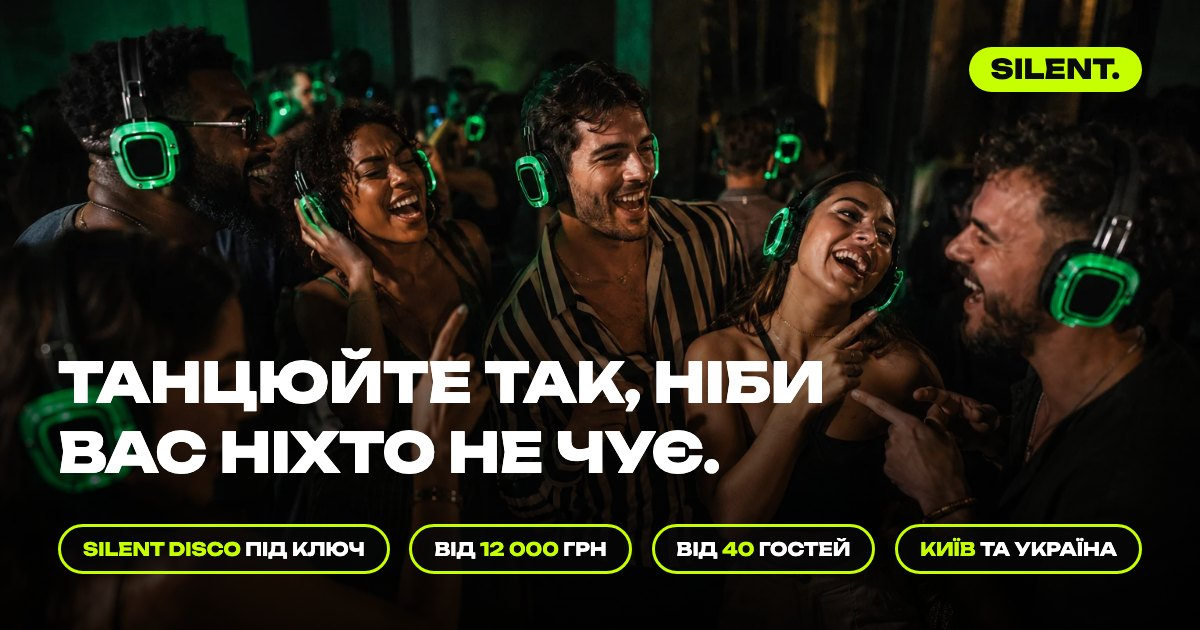
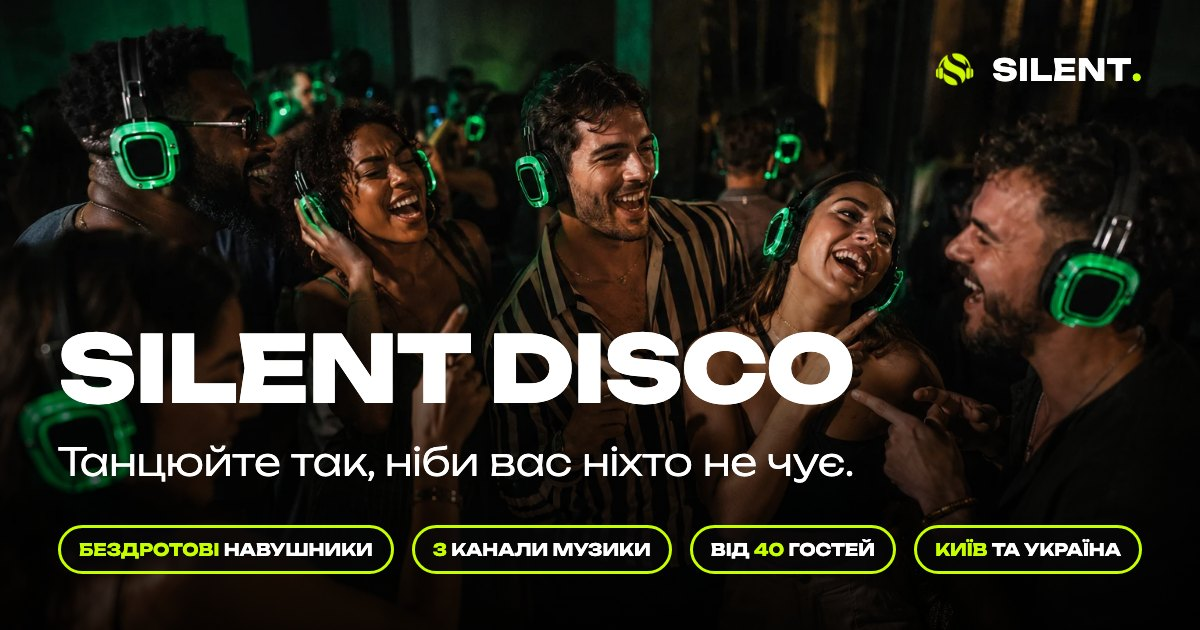
Блог і картки: посилання на студентські події й фестивалі в статтях, нова картка головної (UA/EN), мета-опис блогу, меню без «Бар-тури»
- Дві статті блогу (silent-disco-dlya-riznykh-podiy, tykha-dyskoteka-silent-disco): нативні посилання на /experiences/students/ і /experiences/festivals/. Слова «Громадські події» без посилання навмисно: під них буде окрема сторінка.
- Mega-меню «Тихі враження»: прибрано «Бар-тури», щоб у стовпці було не більше 6 пунктів (картка в каталозі лишилась). Правило записане в CLAUDE.md.
- Мета-опис блогу оновлено (description, og:description, розмітка Blog).
- Картка головної (og-home.jpg): «Silent Disco» заголовком, «Танцюйте так, ніби вас ніхто не чує» підзаголовком, новий логотип, пігулки без ціни. Новий шаблон template-photo-logo.html.
- Англомовна картка головної og-home-en.jpg підключена до /en/ у build_en.py.
- Видалено невикористаний images/promo.png зі старою ціною 9 800 грн.

Changed region(s): [[0.0308, 0.5127, 0.7092, 0.7841], [0.0617, 0.8143, 0.9558, 0.9349], [0.7708, 0.0603, 0.9558, 0.1508]]

diff --git a/blog/silent-disco-dlya-riznykh-podiy/index.html b/blog/silent-disco-dlya-riznykh-podiy/index.html
@@ -323,7 +323,6 @@ if (/^(localhost|127\.0\.0\.1|\[::1\])$/.test(location.hostname) || /\.localhost
                   <a href="/experiences/#cat-community" class="nav-mega-q">Ярмарки та маркети</a>
                   <a href="/experiences/#cat-community" class="nav-mega-q">Інклюзивні події</a>
                   <a href="/experiences/#cat-community" class="nav-mega-q">Події для літніх</a>
-                  <a href="/experiences/#cat-community" class="nav-mega-q">Бар-тури</a>
                   <a href="/experiences/#cat-community" class="nav-mega-q">Готелі й ресорти</a>
                 </div>
               </div>
@@ -521,7 +520,7 @@ if (/^(localhost|127\.0\.0\.1|\[::1\])$/.test(location.hostname) || /\.localhost
 <div class="wrap art-body">
   <p class="art-lead">Уявіть вечірку, де десятки людей танцюють і співають, а якщо зняти навушники, чути лише голоси, сміх і звуки самої події замість гучних колонок. Це Silent Disco: музика звучить у бездротових навушниках, а кожен гість сам регулює гучність і перемикається між каналами. Розповідаємо, для яких подій варто спробувати цей формат.</p>
 <section class="art-blk"><div class="art-flow"><h2>Що робить Silent Disco особливим?</h2><p>На традиційній вечірці всі слухають одну музику. Якщо комусь подобається електроніка, а хтось хоче попхіти чи класику 2000-х, організатору доводиться шукати компроміс.</p><p>У Silent Disco гості отримують бездротові навушники з трьома каналами. Кожен канал має власний плейліст, а перемикатися між ними можна просто під час вечірки. Тож в одному просторі одночасно звучать три різні музичні вечірки, а всі гості лишаються частиною однієї події.</p><p>Є й візуальний ефект: світлодіодні навушники світяться різними кольорами залежно від обраного каналу. Збоку це схоже на те, ніби люди танцюють під різну музику в повній тиші.</p><p>Поєднання музики, свободи вибору та незвичного досвіду робить формат цікавим для найрізноманітніших заходів. Докладніше про технологію: <a href="/blog/tykha-dyskoteka-silent-disco/">Silent Disco, або тиха дискотека</a>.</p></div></section>
-<section class="art-blk"><div class="art-cols"><h2>10 ідей, для яких подій варто спробувати Silent Disco</h2><p class="art-cards-lead">Для кожної ідеї нижче коротко описано, як формат працює на такій події, і додано підсумок, чому його варто спробувати.</p><ol class="art-cards"><li><i class="art-n" aria-hidden="true"></i><b>День народження, який запам&#x27;ятається</b> <span>День народження це одна з найприродніших нагод для Silent Disco, якщо хочеться чогось цікавішого за застілля, але без ведучого й обов&#x27;язкових конкурсів. Кожен гість отримує навушники й обирає музику за настроєм: хтось танцює під хіти, хтось слухає рок, хтось шукає пісню, яку знає вся компанія. Можна створити окремий канал з улюбленою музикою іменинника або влаштувати музичне протистояння між друзями. Формат підходить і для камерного свята, і для великої вечірки. Докладніше: <a href="/experiences/birthday/">Silent Disco на день народження</a>.</span><dl class="art-rows"><div><dt>Чому варто спробувати</dt> <dd>замість звичайної дискотеки ви отримуєте інтерактивний формат, у якому гості самі впливають на атмосферу вечора.</dd></div></dl></li><li><i class="art-n" aria-hidden="true"></i><b>Весілля, на якому кожен знайде свою музику</b> <span>На весіллі збираються різні покоління: молодь чекає на сучасну танцювальну музику, старші на знайомі хіти, друзі молодят на власні жанри. Із Silent Disco гості самі перемикають канали й залишаються на одному танцмайданчику, а різнокольорові навушники добре виглядають на фото й відео. Формат можна зробити основною танцювальною частиною або сюрпризом для гостей, а на майданчиках з обмеженнями щодо гучності він може бути доречним. Можливість проведення завжди залежить від правил локації. Докладніше: <a href="/experiences/wedding/">Silent Disco на весілля</a>.</span><dl class="art-rows"><div><dt>Чому варто спробувати</dt> <dd>танці стають окремою подією всередині весілля, про яку гості довго згадуватимуть.</dd></div></dl></li><li><i class="art-n" aria-hidden="true"></i><b>Корпоратив, на якому нікого не треба змушувати танцювати</b> <span>У команді одні першими виходять на танцмайданчик, інші воліють спокійніший відпочинок, а хтось просто хоче поговорити з колегами поза робочими завданнями. Гості самі обирають музику, регулюють гучність і вирішують, коли танцювати, а коли спілкуватися, і для цього не потрібні окремі зони з різними акустичними системами. Підійде і корпоратив, і річниця компанії, і новорічна вечірка. Цікаво розподілити канали за жанрами чи влаштувати дружній музичний батл між відділами. Докладніше: <a href="/experiences/corporate/">Silent Disco для корпоративів</a> і <a href="/blog/idei-dlya-korporativu/">ідеї для корпоративу без конкурсів</a>.</span><dl class="art-rows"><div><dt>Чому варто спробувати</dt> <dd>це командний досвід, який не вимагає від усіх однакової поведінки: кожен долучається у власному темпі.</dd></div></dl></li><li><i class="art-n" aria-hidden="true"></i><b>Студентські вечірки та шкільні заходи</b> <span>Випускний, посвята першокурсників, студентська вечірка чи закінчення навчального року: усіх їх об&#x27;єднує бажання зробити щось яскравіше за звичайну дискотеку. Учасники перемикаються між каналами, а світлодіодні навушники перетворюють танцмайданчик на живу палітру кольорів. Формат можна підлаштувати під концепцію: вечірка з хітами різних десятиліть або музичний батл між командами. Для шкільних заходів формат варто заздалегідь узгодити з адміністрацією закладу й відповідальними дорослими. Докладніше: <a href="/experiences/school/">Silent Disco на шкільне свято</a>.</span><dl class="art-rows"><div><dt>Чому варто спробувати</dt> <dd>це сучасна вечірка, де музичний вибір сам стає частиною розваги.</dd></div></dl></li><li><i class="art-n" aria-hidden="true"></i><b>Фестивалі, міські свята та громадські заходи</b> <span>Silent Disco може бути не лише окремою вечіркою, а й активністю в межах великого заходу. Наприклад, на фестивалі можна облаштувати танцювальну зону, де учасники слухають музику через навушники, і не вмикати для неї гучну акустику. Формат пасує до тематичних свят, місцевих фестивалів і зустрічей спільнот, де потрібна інтерактивна активність. Для масових заходів заздалегідь продумайте організацію, доступність обладнання, правила локації та безпеку учасників.</span><dl class="art-rows"><div><dt>Чому варто спробувати</dt> <dd>Silent Disco може стати самостійною фестивальною активністю або незвичайним доповненням до вже наявної програми.</dd></div></dl></li><li><i class="art-n" aria-hidden="true"></i><b>Тематичні вечірки та приватні святкування</b> <span>Не кожна вечірка потребує приводу: іноді достатньо зібрати друзів, обрати локацію й вигадати концепцію. Silent Disco добре працює з темами: «90s &amp; 2000s Party» з хітами різних десятиліть, «Pop vs. Rock», «Guilty Pleasures» із піснями, які всі знають, але не всі зізнаються, що люблять, «One Night, Three Genres» з трьома жанрами на трьох каналах та Dress Code Party, де музика доповнює образи гостей. Такі формати підійдуть для домашньої вечірки, зустрічі друзів чи будь-якої особливої дати.</span><dl class="art-rows"><div><dt>Чому варто спробувати</dt> <dd>Silent Disco стає не просто способом слухати музику, а основою концепції всієї вечірки.</dd></div></dl></li><li><i class="art-n" aria-hidden="true"></i><b>Йога, медитація та дихальні практики</b> <span>Бездротові навушники використовують не лише для танців. На заняттях йогою, медитації чи дихальних практиках учасники можуть чути голос інструктора через навушники, не перекриваючи його музикою з колонок. Це доречно для занять на відкритому повітрі, ретритів і групових практик там, де важливо зберегти спокійну атмосферу. Конкретна реалізація залежить від обладнання та його сумісності з потрібними джерелами звуку.</span><dl class="art-rows"><div><dt>Чому варто спробувати</dt> <dd>навушники допомагають зосередити увагу учасників на голосі інструктора та звуковому супроводі.</dd></div></dl></li><li><i class="art-n" aria-hidden="true"></i><b>Конференції, презентації та професійні події</b> <span>На конференції важливо, щоб учасники добре чули доповідача, навіть коли навколо людно або паралельно відбувається кілька активностей. Системи бездротових навушників можуть передавати голос спікера, аудіосупровід презентації чи окремі аудіопотоки, а в деяких конфігураціях кілька каналів допомагають організувати паралельні програми. Для перекладу, синхронної інтерпретації чи складних сценаріїв спершу перевірте технічні можливості конкретної системи.</span><dl class="art-rows"><div><dt>Чому варто спробувати</dt> <dd>бездротовий аудіоформат може стати практичним доповненням до подій, де потрібні чіткий звук і гнучка організація.</dd></div></dl></li><li><i class="art-n" aria-hidden="true"></i><b>Благодійні заходи та події спільнот</b> <span>Благодійні вечірки, зустрічі волонтерів, громадські ініціативи й збори коштів потребують формату, який привертає увагу й робить подію цікавою. Silent Disco може стати таким рішенням: тематична вечірка, музичний батл чи танцювальний захід, де участь поєднується з благодійною метою. Формат можна підлаштувати під масштаб події, кількість учасників і концепцію організаторів.</span><dl class="art-rows"><div><dt>Чому варто спробувати</dt> <dd>незвичайний формат робить благодійний захід інтерактивнішим і дає додаткову причину долучитися.</dd></div></dl></li><li><i class="art-n" aria-hidden="true"></i><b>Вечірки на нестандартних локаціях</b> <span>Ще одна перевага: танцювальну частину можна організувати без традиційної гучної акустичної системи. Це відкриває варіанти для локацій, де колонки небажані або обмежені правилами: тераса чи дах, приватний двір, заміський будинок, готельний простір, внутрішній дворик, орендована зала з обмеженнями щодо звуку. У кожному випадку заздалегідь узгодьте проведення з власником локації. Silent Disco не прибирає розмов, сміху й співу гостей, але музика звучить у навушниках, а не з колонок. Про шум і сусідів: <a href="/blog/vechirka-bez-shumu-sysidy/">Як провести вечірку, щоб не заважати сусідам</a>.</span><dl class="art-rows"><div><dt>Чому варто спробувати</dt> <dd>ви можете розглядати більше варіантів для танцювальної частини події, не обмежуючись майданчиками, пристосованими до гучної музики.</dd></div></dl></li></ol></div></section>
+<section class="art-blk"><div class="art-cols"><h2>10 ідей, для яких подій варто спробувати Silent Disco</h2><p class="art-cards-lead">Для кожної ідеї нижче коротко описано, як формат працює на такій події, і додано підсумок, чому його варто спробувати.</p><ol class="art-cards"><li><i class="art-n" aria-hidden="true"></i><b>День народження, який запам&#x27;ятається</b> <span>День народження це одна з найприродніших нагод для Silent Disco, якщо хочеться чогось цікавішого за застілля, але без ведучого й обов&#x27;язкових конкурсів. Кожен гість отримує навушники й обирає музику за настроєм: хтось танцює під хіти, хтось слухає рок, хтось шукає пісню, яку знає вся компанія. Можна створити окремий канал з улюбленою музикою іменинника або влаштувати музичне протистояння між друзями. Формат підходить і для камерного свята, і для великої вечірки. Докладніше: <a href="/experiences/birthday/">Silent Disco на день народження</a>.</span><dl class="art-rows"><div><dt>Чому варто спробувати</dt> <dd>замість звичайної дискотеки ви отримуєте інтерактивний формат, у якому гості самі впливають на атмосферу вечора.</dd></div></dl></li><li><i class="art-n" aria-hidden="true"></i><b>Весілля, на якому кожен знайде свою музику</b> <span>На весіллі збираються різні покоління: молодь чекає на сучасну танцювальну музику, старші на знайомі хіти, друзі молодят на власні жанри. Із Silent Disco гості самі перемикають канали й залишаються на одному танцмайданчику, а різнокольорові навушники добре виглядають на фото й відео. Формат можна зробити основною танцювальною частиною або сюрпризом для гостей, а на майданчиках з обмеженнями щодо гучності він може бути доречним. Можливість проведення завжди залежить від правил локації. Докладніше: <a href="/experiences/wedding/">Silent Disco на весілля</a>.</span><dl class="art-rows"><div><dt>Чому варто спробувати</dt> <dd>танці стають окремою подією всередині весілля, про яку гості довго згадуватимуть.</dd></div></dl></li><li><i class="art-n" aria-hidden="true"></i><b>Корпоратив, на якому нікого не треба змушувати танцювати</b> <span>У команді одні першими виходять на танцмайданчик, інші воліють спокійніший відпочинок, а хтось просто хоче поговорити з колегами поза робочими завданнями. Гості самі обирають музику, регулюють гучність і вирішують, коли танцювати, а коли спілкуватися, і для цього не потрібні окремі зони з різними акустичними системами. Підійде і корпоратив, і річниця компанії, і новорічна вечірка. Цікаво розподілити канали за жанрами чи влаштувати дружній музичний батл між відділами. Докладніше: <a href="/experiences/corporate/">Silent Disco для корпоративів</a> і <a href="/blog/idei-dlya-korporativu/">ідеї для корпоративу без конкурсів</a>.</span><dl class="art-rows"><div><dt>Чому варто спробувати</dt> <dd>це командний досвід, який не вимагає від усіх однакової поведінки: кожен долучається у власному темпі.</dd></div></dl></li><li><i class="art-n" aria-hidden="true"></i><b>Студентські вечірки та шкільні заходи</b> <span>Випускний, посвята першокурсників, <a href="/experiences/students/">студентська вечірка</a> чи закінчення навчального року: усіх їх об&#x27;єднує бажання зробити щось яскравіше за звичайну дискотеку. Учасники перемикаються між каналами, а світлодіодні навушники перетворюють танцмайданчик на живу палітру кольорів. Формат можна підлаштувати під концепцію: вечірка з хітами різних десятиліть або музичний батл між командами. Для шкільних заходів формат варто заздалегідь узгодити з адміністрацією закладу й відповідальними дорослими. Докладніше: <a href="/experiences/school/">Silent Disco на шкільне свято</a>.</span><dl class="art-rows"><div><dt>Чому варто спробувати</dt> <dd>це сучасна вечірка, де музичний вибір сам стає частиною розваги.</dd></div></dl></li><li><i class="art-n" aria-hidden="true"></i><b>Фестивалі, міські свята та громадські заходи</b> <span>Silent Disco може бути не лише окремою вечіркою, а й активністю в межах великого заходу. Наприклад, <a href="/experiences/festivals/">на фестивалі</a> можна облаштувати танцювальну зону, де учасники слухають музику через навушники, і не вмикати для неї гучну акустику. Формат пасує до тематичних свят, місцевих фестивалів і зустрічей спільнот, де потрібна інтерактивна активність. Для масових заходів заздалегідь продумайте організацію, доступність обладнання, правила локації та безпеку учасників.</span><dl class="art-rows"><div><dt>Чому варто спробувати</dt> <dd>Silent Disco може стати самостійною фестивальною активністю або незвичайним доповненням до вже наявної програми.</dd></div></dl></li><li><i class="art-n" aria-hidden="true"></i><b>Тематичні вечірки та приватні святкування</b> <span>Не кожна вечірка потребує приводу: іноді достатньо зібрати друзів, обрати локацію й вигадати концепцію. Silent Disco добре працює з темами: «90s &amp; 2000s Party» з хітами різних десятиліть, «Pop vs. Rock», «Guilty Pleasures» із піснями, які всі знають, але не всі зізнаються, що люблять, «One Night, Three Genres» з трьома жанрами на трьох каналах та Dress Code Party, де музика доповнює образи гостей. Такі формати підійдуть для домашньої вечірки, зустрічі друзів чи будь-якої особливої дати.</span><dl class="art-rows"><div><dt>Чому варто спробувати</dt> <dd>Silent Disco стає не просто способом слухати музику, а основою концепції всієї вечірки.</dd></div></dl></li><li><i class="art-n" aria-hidden="true"></i><b>Йога, медитація та дихальні практики</b> <span>Бездротові навушники використовують не лише для танців. На заняттях йогою, медитації чи дихальних практиках учасники можуть чути голос інструктора через навушники, не перекриваючи його музикою з колонок. Це доречно для занять на відкритому повітрі, ретритів і групових практик там, де важливо зберегти спокійну атмосферу. Конкретна реалізація залежить від обладнання та його сумісності з потрібними джерелами звуку.</span><dl class="art-rows"><div><dt>Чому варто спробувати</dt> <dd>навушники допомагають зосередити увагу учасників на голосі інструктора та звуковому супроводі.</dd></div></dl></li><li><i class="art-n" aria-hidden="true"></i><b>Конференції, презентації та професійні події</b> <span>На конференції важливо, щоб учасники добре чули доповідача, навіть коли навколо людно або паралельно відбувається кілька активностей. Системи бездротових навушників можуть передавати голос спікера, аудіосупровід презентації чи окремі аудіопотоки, а в деяких конфігураціях кілька каналів допомагають організувати паралельні програми. Для перекладу, синхронної інтерпретації чи складних сценаріїв спершу перевірте технічні можливості конкретної системи.</span><dl class="art-rows"><div><dt>Чому варто спробувати</dt> <dd>бездротовий аудіоформат може стати практичним доповненням до подій, де потрібні чіткий звук і гнучка організація.</dd></div></dl></li><li><i class="art-n" aria-hidden="true"></i><b>Благодійні заходи та події спільнот</b> <span>Благодійні вечірки, зустрічі волонтерів, громадські ініціативи й збори коштів потребують формату, який привертає увагу й робить подію цікавою. Silent Disco може стати таким рішенням: тематична вечірка, музичний батл чи танцювальний захід, де участь поєднується з благодійною метою. Формат можна підлаштувати під масштаб події, кількість учасників і концепцію організаторів.</span><dl class="art-rows"><div><dt>Чому варто спробувати</dt> <dd>незвичайний формат робить благодійний захід інтерактивнішим і дає додаткову причину долучитися.</dd></div></dl></li><li><i class="art-n" aria-hidden="true"></i><b>Вечірки на нестандартних локаціях</b> <span>Ще одна перевага: танцювальну частину можна організувати без традиційної гучної акустичної системи. Це відкриває варіанти для локацій, де колонки небажані або обмежені правилами: тераса чи дах, приватний двір, заміський будинок, готельний простір, внутрішній дворик, орендована зала з обмеженнями щодо звуку. У кожному випадку заздалегідь узгодьте проведення з власником локації. Silent Disco не прибирає розмов, сміху й співу гостей, але музика звучить у навушниках, а не з колонок. Про шум і сусідів: <a href="/blog/vechirka-bez-shumu-sysidy/">Як провести вечірку, щоб не заважати сусідам</a>.</span><dl class="art-rows"><div><dt>Чому варто спробувати</dt> <dd>ви можете розглядати більше варіантів для танцювальної частини події, не обмежуючись майданчиками, пристосованими до гучної музики.</dd></div></dl></li></ol></div></section>
 <div class="art-photos is-2"><figure><img src="/images/silent-disco/silent-disco-nichnyi-tantsmaidanchyk-krupno.webp" alt="Дівчата танцюють на нічному танцмайданчику в навушниках Silent Disco із зеленою та червоною підсвіткою" loading="lazy" decoding="async" width="1254" height="1254" style="object-position: 50% 40%"></figure><figure><img src="/images/silent-disco/silent-disco-tanets-pary-v-neonovomu-svitli.webp" alt="Пара танцює серед гостей у навушниках Silent Disco в неоновому світлі" loading="lazy" decoding="async" width="1254" height="1254" style="object-position: 50% 35%"></figure></div>
 <section class="art-blk"><div class="art-flow"><h2>Наскільки популярний Silent Disco?</h2><p>Формат давно вийшов за межі незвичайної альтернативи дискотеці: його використовують на приватних святкуваннях, корпоративах, весіллях, студентських вечірках і групових активностях.</p><p>Показовий приклад: <a href="/blog/dlya-yakykh-podiy-zamovlyayut-silent-disco/">аналіз 3000 бронювань оренди обладнання</a>, опублікований у 2026 році. У цій вибірці дні народження становили 23% замовлень, загальні вечірки 22%, шкільні заходи 22%, корпоративи 11%, весілля 4%.</p><p>Ці цифри описують конкретну вибірку, а не весь світовий ринок і не українську аудиторію. Але вони показують головне: Silent Disco використовують не лише на великих фестивалях, а й на звичайних святкуваннях, які люди організовують для себе, друзів і колег.</p><p>Тож не обов&#x27;язково мати сцену чи сотні гостей, щоб спробувати формат. Silent Disco можна вписати в подію відповідно до її концепції, локації й кількості учасників. В Україні його також можна розглядати як альтернативу традиційній танцювальній програмі.</p></div></section>
 <section class="art-blk"><div class="art-cols"><h2>Чому Silent Disco більше, ніж музика в навушниках?</h2><p class="art-cards-lead">На перший погляд усе просто: гості надягають навушники й слухають музику. Але формат змінює й саму взаємодію людей. Він не мусить замінювати весь захід, іноді найкраще зробити його окремою частиною вечора, що змінює атмосферу події.</p><ol class="art-cards"><li><span class="art-ic" aria-hidden="true"><svg viewBox="0 0 24 24" fill="none" stroke="currentColor" stroke-width="1.6" stroke-linecap="round" stroke-linejoin="round"><path d="M12 3l2.7 5.6 6.1.9-4.4 4.3 1 6.1L12 17l-5.4 2.9 1-6.1L3.2 9.5l6.1-.9z"/></svg></span><b>Свобода вибору.</b> <span>Гості перемикаються між музичними каналами й слухають те, що їм подобається.</span></li><li><span class="art-ic" aria-hidden="true"><svg viewBox="0 0 24 24" fill="none" stroke="currentColor" stroke-width="1.6" stroke-linecap="round" stroke-linejoin="round"><circle cx="9" cy="8" r="3"/><circle cx="17" cy="9" r="2.4"/><path d="M3 20c0-3.3 2.7-6 6-6s6 2.7 6 6M15.5 14.4c2.8.2 5.5 2 5.5 5.6"/></svg></span><b>Спільний досвід.</b> <span>Попри різні смаки, усі лишаються на одному танцмайданчику.</span></li><li><span class="art-ic" aria-hidden="true"><svg viewBox="0 0 24 24" fill="none" stroke="currentColor" stroke-width="1.6" stroke-linecap="round" stroke-linejoin="round"><path d="M12 3l1.8 5.2L19 10l-5.2 1.8L12 17l-1.8-5.2L5 10l5.2-1.8z"/><path d="M19 17v4M17 19h4"/></svg></span><b>Незвична атмосфера.</b> <span>Світлодіодні навушники створюють яскравий візуальний ефект, а вечірка стає інтерактивнішою.</span></li><li><span class="art-ic" aria-hidden="true"><svg viewBox="0 0 24 24" fill="none" stroke="currentColor" stroke-width="1.6" stroke-linecap="round" stroke-linejoin="round"><path d="M8 3h8l-1 7a3 3 0 0 1-6 0z"/><path d="M12 13v8M8 21h8"/></svg></span><b>Музика без гучних колонок.</b> <span>Учасники чують музику через навушники, тож не потрібно відтворювати її через традиційну акустику для танцмайданчика.</span></li></ol></div></section>

diff --git a/blog/tykha-dyskoteka-silent-disco/index.html b/blog/tykha-dyskoteka-silent-disco/index.html
@@ -339,7 +339,6 @@ if (/^(localhost|127\.0\.0\.1|\[::1\])$/.test(location.hostname) || /\.localhost
                   <a href="/experiences/#cat-community" class="nav-mega-q">Ярмарки та маркети</a>
                   <a href="/experiences/#cat-community" class="nav-mega-q">Інклюзивні події</a>
                   <a href="/experiences/#cat-community" class="nav-mega-q">Події для літніх</a>
-                  <a href="/experiences/#cat-community" class="nav-mega-q">Бар-тури</a>
                   <a href="/experiences/#cat-community" class="nav-mega-q">Готелі й ресорти</a>
                 </div>
               </div>
@@ -543,7 +542,7 @@ if (/^(localhost|127\.0\.0\.1|\[::1\])$/.test(location.hostname) || /\.localhost
 <section class="art-blk"><div class="art-cols"><h2>Чим тиха дискотека відрізняється від звичайної?</h2><p class="art-cards-lead">Головна різниця в тому, що звук не заповнює залу, а йде кожному в навушники. Звідси й решта відмінностей.</p><div class="art-table-wrap"><table class="art-table"><thead><tr><th scope="col"></th> <th scope="col">Звичайна дискотека</th> <th scope="col">Тиха дискотека</th></tr></thead> <tbody><tr><th scope="row">Звук</th> <td class="is-no"><span class="art-cell-l">Звичайна дискотека</span>З колонок на всю залу</td> <td class="is-yes"><span class="art-cell-l">Тиха дискотека</span>У бездротових навушниках кожного гостя</td></tr><tr><th scope="row">Музика</th> <td class="is-no"><span class="art-cell-l">Звичайна дискотека</span>Одна для всіх</td> <td class="is-yes"><span class="art-cell-l">Тиха дискотека</span>Кілька каналів на вибір (у SILENT їх три)</td></tr><tr><th scope="row">Гучність</th> <td class="is-no"><span class="art-cell-l">Звичайна дискотека</span>Загальна для всіх</td> <td class="is-yes"><span class="art-cell-l">Тиха дискотека</span>Кожен гість налаштовує сам</td></tr><tr><th scope="row">Розмова</th> <td class="is-no"><span class="art-cell-l">Звичайна дискотека</span>Доводиться перекрикувати музику</td> <td class="is-yes"><span class="art-cell-l">Тиха дискотека</span>Навушники на шию, і чути звичайний голос</td></tr><tr><th scope="row">Сусіди й майданчик</th> <td class="is-no"><span class="art-cell-l">Звичайна дискотека</span>Гучність доводиться обмежувати</td> <td class="is-yes"><span class="art-cell-l">Тиха дискотека</span>Колонок немає, тож питання гучності зазвичай не виникає</td></tr><tr><th scope="row">Участь</th> <td class="is-no"><span class="art-cell-l">Звичайна дискотека</span>Зазвичай усі танцюють</td> <td class="is-yes"><span class="art-cell-l">Тиха дискотека</span>Можна танцювати, слухати чи просто бути поруч</td></tr></tbody></table></div></div></section>
 <section class="art-blk"><div class="art-cols"><h2>Чому гостям подобається формат Silent Disco</h2><ol class="art-cards is-plain"><li><b>Можна обирати власну музику.</b> <span>У компанії зазвичай різні смаки: хтось любить сучасну попмузику, хтось рок чи електроніку, хтось знайомі хіти минулих років. Кілька каналів не зводять вечірку до одного плейліста, і гості не розходяться по різних залах.</span></li><li><b>Не обов&#x27;язково весь час танцювати.</b> <span>Комусь важливі танці, а комусь комфортніше спілкуватися чи спостерігати. У Silent Disco можна змінювати спосіб участі протягом вечора.</span></li><li><b>Це незвичний спільний досвід.</b> <span>Світні навушники, різні канали й контраст між музикою в навушниках і звуком навколо створюють особливу атмосферу: люди танцюють під різні треки й лишаються частиною однієї події.</span></li><li><b>Менше залежності від гучних колонок.</b> <span>Музика йде в навушники, тож для всіх учасників не потрібна традиційна акустика. Це зручно на майданчиках з обмеженнями щодо гучності, але не гарантує повної тиші: голоси та правила локації лишаються.</span></li></ol></div></section>
 <section class="art-blk"><div class="art-flow"><h2>Чи справді тиха дискотека тиха?</h2><p>Для людей поруч музики немає: вона звучить лише в навушниках. Але сама вечірка не мовчить, бо гості сміються, розмовляють і підспівують, а навушники приглушують власний голос, тож співають вони голосніше, ніж здається.</p><p>Тиха тут музика ззовні, а не настрій вечора. Для сусідів і майданчика це зазвичай означає менше питань, хоча голоси гостей варто враховувати, особливо вночі. Про правила режиму тиші читайте в статті <a href="/blog/vechirka-bez-shumu-sysidy/">Як провести вечірку, щоб не заважати сусідам</a>.</p></div></section>
-<section class="art-blk"><div class="art-cols"><h2>Для яких людей і подій підходить Silent Disco?</h2><p class="art-cards-lead">Формат працює на <a href="/experiences/birthday/">днях народження</a>, <a href="/experiences/wedding/">весіллях</a>, <a href="/experiences/corporate/">корпоративах</a>, домашніх вечірках, просто неба й на фестивалях. Усі формати зібрані в каталозі <a href="/experiences/">Тихі враження</a>. Ідеї для кожного формату є в статтях про <a href="/blog/yak-vidsvyatkuvaty-den-narodzhennya/">день народження</a>, <a href="/blog/idei-dlya-korporativu/">корпоратив</a> і <a href="/blog/vesillya-voyennyi-stan/">весілля під час війни</a>. Які події обирають найчастіше, показує <a href="/blog/dlya-yakykh-podiy-zamovlyayut-silent-disco/">аналіз 3000 бронювань</a>, а ідеї для десяти типів подій зібрано в статті <a href="/blog/silent-disco-dlya-riznykh-podiy/">Silent Disco для різних подій</a>.</p><ol class="art-cards is-cols"><li><span class="art-ic" aria-hidden="true"><svg viewBox="0 0 24 24" fill="none" stroke="currentColor" stroke-width="1.6" stroke-linecap="round" stroke-linejoin="round"><path d="M13 2 4 14h7l-1 8 9-12h-7z"/></svg></span><b>Енергійним.</b> <span>Танцюйте без зупинки й перемикайте канали, коли хочеться змінити настрій.</span></li><li><span class="art-ic" aria-hidden="true"><svg viewBox="0 0 24 24" fill="none" stroke="currentColor" stroke-width="1.6" stroke-linecap="round" stroke-linejoin="round"><path d="M8 3h8l-1 7a3 3 0 0 1-6 0z"/><path d="M12 13v8M8 21h8"/></svg></span><b>Тим, хто любить слухати.</b> <span>Можна просто відчувати музику, спостерігати за іншими й лишатися частиною вечора.</span></li><li><span class="art-ic" aria-hidden="true"><svg viewBox="0 0 24 24" fill="none" stroke="currentColor" stroke-width="1.6" stroke-linecap="round" stroke-linejoin="round"><circle cx="9" cy="8" r="3"/><circle cx="17" cy="9" r="2.4"/><path d="M3 20c0-3.3 2.7-6 6-6s6 2.7 6 6M15.5 14.4c2.8.2 5.5 2 5.5 5.6"/></svg></span><b>Різній компанії.</b> <span>Друзі, колеги чи родичі з різними смаками слухають кожен своє на одній вечірці.</span></li><li><span class="art-ic" aria-hidden="true"><svg viewBox="0 0 24 24" fill="none" stroke="currentColor" stroke-width="1.6" stroke-linecap="round" stroke-linejoin="round"><path d="M12 3l1.8 5.2L19 10l-5.2 1.8L12 17l-1.8-5.2L5 10l5.2-1.8z"/><path d="M19 17v4M17 19h4"/></svg></span><b>Новим форматам.</b> <span>Коли хочеться не повторювати звичну дискотеку, а запропонувати гостям новий досвід.</span></li></ol></div></section>
+<section class="art-blk"><div class="art-cols"><h2>Для яких людей і подій підходить Silent Disco?</h2><p class="art-cards-lead">Формат працює на <a href="/experiences/birthday/">днях народження</a>, <a href="/experiences/wedding/">весіллях</a>, <a href="/experiences/corporate/">корпоративах</a>, домашніх вечірках, просто неба й <a href="/experiences/festivals/">на фестивалях</a>. Усі формати зібрані в каталозі <a href="/experiences/">Тихі враження</a>. Ідеї для кожного формату є в статтях про <a href="/blog/yak-vidsvyatkuvaty-den-narodzhennya/">день народження</a>, <a href="/blog/idei-dlya-korporativu/">корпоратив</a> і <a href="/blog/vesillya-voyennyi-stan/">весілля під час війни</a>. Які події обирають найчастіше, показує <a href="/blog/dlya-yakykh-podiy-zamovlyayut-silent-disco/">аналіз 3000 бронювань</a>, а ідеї для десяти типів подій зібрано в статті <a href="/blog/silent-disco-dlya-riznykh-podiy/">Silent Disco для різних подій</a>.</p><ol class="art-cards is-cols"><li><span class="art-ic" aria-hidden="true"><svg viewBox="0 0 24 24" fill="none" stroke="currentColor" stroke-width="1.6" stroke-linecap="round" stroke-linejoin="round"><path d="M13 2 4 14h7l-1 8 9-12h-7z"/></svg></span><b>Енергійним.</b> <span>Танцюйте без зупинки й перемикайте канали, коли хочеться змінити настрій.</span></li><li><span class="art-ic" aria-hidden="true"><svg viewBox="0 0 24 24" fill="none" stroke="currentColor" stroke-width="1.6" stroke-linecap="round" stroke-linejoin="round"><path d="M8 3h8l-1 7a3 3 0 0 1-6 0z"/><path d="M12 13v8M8 21h8"/></svg></span><b>Тим, хто любить слухати.</b> <span>Можна просто відчувати музику, спостерігати за іншими й лишатися частиною вечора.</span></li><li><span class="art-ic" aria-hidden="true"><svg viewBox="0 0 24 24" fill="none" stroke="currentColor" stroke-width="1.6" stroke-linecap="round" stroke-linejoin="round"><circle cx="9" cy="8" r="3"/><circle cx="17" cy="9" r="2.4"/><path d="M3 20c0-3.3 2.7-6 6-6s6 2.7 6 6M15.5 14.4c2.8.2 5.5 2 5.5 5.6"/></svg></span><b>Різній компанії.</b> <span>Друзі, колеги чи родичі з різними смаками слухають кожен своє на одній вечірці.</span></li><li><span class="art-ic" aria-hidden="true"><svg viewBox="0 0 24 24" fill="none" stroke="currentColor" stroke-width="1.6" stroke-linecap="round" stroke-linejoin="round"><path d="M12 3l1.8 5.2L19 10l-5.2 1.8L12 17l-1.8-5.2L5 10l5.2-1.8z"/><path d="M19 17v4M17 19h4"/></svg></span><b>Новим форматам.</b> <span>Коли хочеться не повторювати звичну дискотеку, а запропонувати гостям новий досвід.</span></li></ol></div></section>
 <div class="art-photos is-2"><figure><img src="/images/silent-disco/silent-disco-kompaniya-druziv-pid-salyutom.webp" alt="Компанія друзів, хлопці й дівчата, веселиться на фестивалі під салютом у навушниках Silent Disco" loading="lazy" decoding="async" width="1120" height="1400" style="object-position: 50% 60%"></figure><figure><img src="/images/silent-disco/silent-disco-try-podrugy-na-dyskoteky.webp" alt="Три подруги усміхаються в навушниках Silent Disco на тихій дискотеці" loading="lazy" decoding="async" width="1269" height="1239" style="object-position: 50% 40%"></figure></div>
 <section class="art-blk"><div class="art-flow"><h2>Що потрібно, щоб провести тиху дискотеку?</h2><p>Для вечірки потрібні місце для танців, розетка поруч, навушники за кількістю гостей і музика. Мінімальний комплект SILENT це 40 навушників на 4 години, а решту ми беремо на себе.</p><p>Перед замовленням визначте дату й тривалість, кількість учасників, локацію (простір, електроживлення, правила майданчика), музичний сценарій і бюджет. Не припускайте, що будь-яка локація чи конфігурація доступна автоматично: технічні умови уточнюються для конкретної події. Як усе працює на самій події, дивіться в розділі <a href="/experiences/silent-disco/#how-it-works">Як це працює</a>.</p> <ol class="art-steps" style="counter-reset: st 0"><li><b>Дата й кількість гостей.</b> <span>Залиште заявку: це перевірка вільної дати, ні до чого не зобов&#x27;язує.</span></li><li><b>Підготовка.</b> <span>Підбираємо комплект і готуємо плейлисти під формат вечора.</span></li><li><b>Монтаж.</b> <span>Приїжджаємо за 30 хвилин до старту, налаштовуємо навушники й перевіряємо сигнал.</span></li><li><b>Вечірка.</b> <span>Ви танцюєте, ми супроводжуємо, а після події забираємо обладнання.</span></li></ol></div></section>
 <section class="art-blk"><div class="art-flow"><h2>Скільки коштує тиха дискотека?</h2><p>Мінімальний комплект SILENT (40 навушників на 4 години) коштує від 12 000 грн з доставкою, встановленням, супроводом і вивозом. Додаткові навушники й години додаються до суми.</p><p>Орієнтовну вартість для вашої події одразу покаже <a href="/experiences/silent-disco/#price">калькулятор</a>, а фінальна ціна залежить від дати, локації, тривалості й формату. Докладніше про умови читайте на сторінці <a href="/experiences/silent-disco/">Silent Disco</a>.</p><p>Перед замовленням уточніть, що входить у базову комплектацію, скільки коштують додаткові навушники й години та які умови оплати, перенесення й скасування, їх описано в <a href="/faq/">питаннях і відповідях</a>. Щоб замовити, <a href="/#book">перевірте дату</a> у формі бронювання.</p></div></section>

diff --git a/blog/index.html b/blog/index.html
@@ -35,7 +35,7 @@ if (/^(localhost|127\.0\.0\.1|\[::1\])$/.test(location.hostname) || /\.localhost
      після побудови CSSOM; явний preload тягне файл під час парсингу <head>. -->
 <meta name="viewport" content="width=device-width, initial-scale=1.0">
 <title>Блог SILENT: ідеї та поради для тихих вечірок</title>
-<meta name="description" content="Як провести свято без шуму, чим здивувати гостей і де silent disco рятує вечір: весілля, корпоративи, дні народження.">
+<meta name="description" content="Блог SILENT про тиху дискотеку. Ідеї для свят, формати подій, способи здивувати гостей і поради, як провести вечірку з музикою в бездротових навушниках.">
 <meta name="theme-color" content="#0a0a0b">
 <link rel="icon" href="/favicon.ico" sizes="48x48">
 <link rel="icon" type="image/png" href="/favicon-48x48.png" sizes="48x48">
@@ -44,7 +44,7 @@ if (/^(localhost|127\.0\.0\.1|\[::1\])$/.test(location.hostname) || /\.localhost
 <meta property="og:site_name" content="SILENT">
 <meta property="og:locale" content="uk_UA">
 <meta property="og:title" content="Блог SILENT: ідеї та поради для тихих вечірок">
-<meta property="og:description" content="Як провести свято без шуму, чим здивувати гостей і де silent disco рятує вечір: весілля, корпоративи, дні народження.">
+<meta property="og:description" content="Блог SILENT про тиху дискотеку. Ідеї для свят, формати подій, способи здивувати гостей і поради, як провести вечірку з музикою в бездротових навушниках.">
 <meta property="og:url" content="https://silent.org.ua/blog/">
 <meta property="og:image" content="https://silent.org.ua/images/blog/og-blog.jpg">
 <meta property="og:image:width" content="1200">
@@ -72,7 +72,7 @@ if (/^(localhost|127\.0\.0\.1|\[::1\])$/.test(location.hostname) || /\.localhost
       "@id": "https://silent.org.ua/blog/#webpage",
       "url": "https://silent.org.ua/blog/",
       "name": "Блог SILENT: ідеї та поради для тихих вечірок",
-      "description": "Як провести свято без шуму, чим здивувати гостей і де silent disco рятує вечір: весілля, корпоративи, дні народження.",
+      "description": "Блог SILENT про тиху дискотеку. Ідеї для свят, формати подій, способи здивувати гостей і поради, як провести вечірку з музикою в бездротових навушниках.",
       "inLanguage": "uk-UA",
       "isPartOf": {
         "@id": "https://silent.org.ua/#website"
@@ -236,7 +236,6 @@ if (/^(localhost|127\.0\.0\.1|\[::1\])$/.test(location.hostname) || /\.localhost
                   <a href="/experiences/#cat-community" class="nav-mega-q">Ярмарки та маркети</a>
                   <a href="/experiences/#cat-community" class="nav-mega-q">Інклюзивні події</a>
                   <a href="/experiences/#cat-community" class="nav-mega-q">Події для літніх</a>
-                  <a href="/experiences/#cat-community" class="nav-mega-q">Бар-тури</a>
                   <a href="/experiences/#cat-community" class="nav-mega-q">Готелі й ресорти</a>
                 </div>
               </div>

diff --git a/en/index.html b/en/index.html
@@ -96,7 +96,7 @@ if (/^(localhost|127\.0\.0\.1|\[::1\])$/.test(location.hostname) || /\.localhost
      картинки. Канонічний адрес — на власному домені, щоб пошук не індексував
      ще й дублікат на github.io. -->
 <meta property="og:url" content="https://silent.org.ua/en/">
-<meta property="og:image" content="https://silent.org.ua/images/og/og-home.jpg">
+<meta property="og:image" content="https://silent.org.ua/images/og/og-home-en.jpg">
 <meta property="og:image:width" content="1200">
 <meta property="og:image:height" content="630">
 <meta property="og:image:type" content="image/jpeg">
@@ -104,7 +104,7 @@ if (/^(localhost|127\.0\.0\.1|\[::1\])$/.test(location.hostname) || /\.localhost
 <meta name="twitter:card" content="summary_large_image">
 <meta name="twitter:title" content="SILENT — one party. Three worlds of music.">
 <meta name="twitter:description" content="SILENT — full-service silent disco in Kyiv and across Ukraine: wireless LED headphones, 3 music channels, delivery, setup and on-site support for your event.">
-<meta name="twitter:image" content="https://silent.org.ua/images/og/og-home.jpg">
+<meta name="twitter:image" content="https://silent.org.ua/images/og/og-home-en.jpg">
 <meta name="twitter:image:alt" content="Guests dancing in glowing green Silent Disco headphones, with the text “Dance like nobody can hear you”">
 <link rel="canonical" href="https://silent.org.ua/en/">
 <!-- Дві мовні версії одного сайту: кожна сторінка називає обидві й себе саму,
@@ -143,7 +143,7 @@ if (/^(localhost|127\.0\.0\.1|\[::1\])$/.test(location.hostname) || /\.localhost
       "name": "SILENT",
       "url": "https://silent.org.ua/",
       "logo": "https://silent.org.ua/images/SILENT_logo.png",
-      "image": "https://silent.org.ua/images/og/og-home.jpg",
+      "image": "https://silent.org.ua/images/og/og-home-en.jpg",
       "areaServed": [
         {
           "@type": "City",
@@ -213,7 +213,7 @@ if (/^(localhost|127\.0\.0\.1|\[::1\])$/.test(location.hostname) || /\.localhost
       },
       "primaryImageOfPage": {
         "@type": "ImageObject",
-        "url": "https://silent.org.ua/images/og/og-home.jpg",
+        "url": "https://silent.org.ua/images/og/og-home-en.jpg",
         "width": 1200,
         "height": 630
       }
@@ -480,7 +480,6 @@ if (/^(localhost|127\.0\.0\.1|\[::1\])$/.test(location.hostname) || /\.localhost
                   <a href="/en/experiences/#cat-community" class="nav-mega-q">Fairs and markets</a>
                   <a href="/en/experiences/#cat-community" class="nav-mega-q">Inclusive events</a>
                   <a href="/en/experiences/#cat-community" class="nav-mega-q">Events for older guests</a>
-                  <a href="/en/experiences/#cat-community" class="nav-mega-q">Bar tours</a>
                   <a href="/en/experiences/#cat-community" class="nav-mega-q">Hotels and resorts</a>
                 </div>
               </div>

diff --git a/tools/og/template-photo-logo.html b/tools/og/template-photo-logo.html
@@ -1,0 +1,20 @@
+<!doctype html><html lang="uk"><head><meta charset="utf-8">
+<link href="https://fonts.googleapis.com/css2?family=Unbounded:wght@300;700;800&family=Manrope:wght@700;800&display=swap" rel="stylesheet">
+<style>
+:root{--night:#0a0a0b;--lime:#c6ff00}
+*{box-sizing:border-box;margin:0}
+html,body{width:1200px;height:630px;overflow:hidden;background:var(--night)}
+.p{position:relative;width:1200px;height:630px;color:#fff;font-family:'Manrope',sans-serif;overflow:hidden}
+.p>img{position:absolute;inset:0;width:100%;height:100%;object-fit:cover;object-position:{{BG_POS}}}
+.shade{position:absolute;inset:0;background:linear-gradient(180deg,rgba(0,0,0,0) 38%,rgba(0,0,0,.55) 66%,rgba(0,0,0,.82) 100%)}
+.logo{position:absolute;right:58px;top:44px;display:flex;align-items:center;gap:12px}.logo img{width:52px;height:52px;display:block}.logo span{font:700 30px/1 'Unbounded',sans-serif;letter-spacing:.02em}.logo b{color:var(--lime)}
+.h{position:absolute;left:58px;top:348px;font:800 55px/1.27 'Unbounded',sans-serif;text-transform:uppercase;letter-spacing:-.01em}
+.h span{display:block;white-space:nowrap}
+.pills{position:absolute;left:58px;right:58px;bottom:56px;display:flex;gap:16px;justify-content:space-between}
+.pill{padding:13px 22px;border:3px solid var(--lime);border-radius:999px;background:rgba(10,10,11,.55);font:700 18px/1 'Unbounded',sans-serif;text-transform:uppercase;white-space:nowrap}
+.pill b{color:var(--lime);font-weight:700}
+{{EXTRA_CSS}}
+</style></head><body><div class="p"><img src="{{BG}}"><div class="shade"></div>
+<div class="logo"><img src="{{MARK}}"><span>SILENT<b>.</b></span></div>
+<div class="h">{{HEADING}}</div>
+<div class="pills">{{PILLS}}</div></div></body></html>

diff --git a/about/index.html b/about/index.html
@@ -230,7 +230,6 @@ if (/^(localhost|127\.0\.0\.1|\[::1\])$/.test(location.hostname) || /\.localhost
                   <a href="/experiences/#cat-community" class="nav-mega-q">Ярмарки та маркети</a>
                   <a href="/experiences/#cat-community" class="nav-mega-q">Інклюзивні події</a>
                   <a href="/experiences/#cat-community" class="nav-mega-q">Події для літніх</a>
-                  <a href="/experiences/#cat-community" class="nav-mega-q">Бар-тури</a>
                   <a href="/experiences/#cat-community" class="nav-mega-q">Готелі й ресорти</a>
                 </div>
               </div>

diff --git a/blog/dlya-yakykh-podiy-zamovlyayut-silent-disco/index.html b/blog/dlya-yakykh-podiy-zamovlyayut-silent-disco/index.html
@@ -307,7 +307,6 @@ if (/^(localhost|127\.0\.0\.1|\[::1\])$/.test(location.hostname) || /\.localhost
                   <a href="/experiences/#cat-community" class="nav-mega-q">Ярмарки та маркети</a>
                   <a href="/experiences/#cat-community" class="nav-mega-q">Інклюзивні події</a>
                   <a href="/experiences/#cat-community" class="nav-mega-q">Події для літніх</a>
-                  <a href="/experiences/#cat-community" class="nav-mega-q">Бар-тури</a>
                   <a href="/experiences/#cat-community" class="nav-mega-q">Готелі й ресорти</a>
                 </div>
               </div>

diff --git a/blog/idei-dlya-korporativu/index.html b/blog/idei-dlya-korporativu/index.html
@@ -323,7 +323,6 @@ if (/^(localhost|127\.0\.0\.1|\[::1\])$/.test(location.hostname) || /\.localhost
                   <a href="/experiences/#cat-community" class="nav-mega-q">Ярмарки та маркети</a>
                   <a href="/experiences/#cat-community" class="nav-mega-q">Інклюзивні події</a>
                   <a href="/experiences/#cat-community" class="nav-mega-q">Події для літніх</a>
-                  <a href="/experiences/#cat-community" class="nav-mega-q">Бар-тури</a>
                   <a href="/experiences/#cat-community" class="nav-mega-q">Готелі й ресорти</a>
                 </div>
               </div>

diff --git a/blog/novorichnyi-korporatyv-idei/index.html b/blog/novorichnyi-korporatyv-idei/index.html
@@ -307,7 +307,6 @@ if (/^(localhost|127\.0\.0\.1|\[::1\])$/.test(location.hostname) || /\.localhost
                   <a href="/experiences/#cat-community" class="nav-mega-q">Ярмарки та маркети</a>
                   <a href="/experiences/#cat-community" class="nav-mega-q">Інклюзивні події</a>
                   <a href="/experiences/#cat-community" class="nav-mega-q">Події для літніх</a>
-                  <a href="/experiences/#cat-community" class="nav-mega-q">Бар-тури</a>
                   <a href="/experiences/#cat-community" class="nav-mega-q">Готелі й ресорти</a>
                 </div>
               </div>

diff --git a/blog/vechirka-bez-shumu-sysidy/index.html b/blog/vechirka-bez-shumu-sysidy/index.html
@@ -339,7 +339,6 @@ if (/^(localhost|127\.0\.0\.1|\[::1\])$/.test(location.hostname) || /\.localhost
                   <a href="/experiences/#cat-community" class="nav-mega-q">Ярмарки та маркети</a>
                   <a href="/experiences/#cat-community" class="nav-mega-q">Інклюзивні події</a>
                   <a href="/experiences/#cat-community" class="nav-mega-q">Події для літніх</a>
-                  <a href="/experiences/#cat-community" class="nav-mega-q">Бар-тури</a>
                   <a href="/experiences/#cat-community" class="nav-mega-q">Готелі й ресорти</a>
                 </div>
               </div>

diff --git a/blog/vesillya-voyennyi-stan/index.html b/blog/vesillya-voyennyi-stan/index.html
@@ -323,7 +323,6 @@ if (/^(localhost|127\.0\.0\.1|\[::1\])$/.test(location.hostname) || /\.localhost
                   <a href="/experiences/#cat-community" class="nav-mega-q">Ярмарки та маркети</a>
                   <a href="/experiences/#cat-community" class="nav-mega-q">Інклюзивні події</a>
                   <a href="/experiences/#cat-community" class="nav-mega-q">Події для літніх</a>
-                  <a href="/experiences/#cat-community" class="nav-mega-q">Бар-тури</a>
                   <a href="/experiences/#cat-community" class="nav-mega-q">Готелі й ресорти</a>
                 </div>
               </div>

diff --git a/blog/yak-vidsvyatkuvaty-den-narodzhennya/index.html b/blog/yak-vidsvyatkuvaty-den-narodzhennya/index.html
@@ -323,7 +323,6 @@ if (/^(localhost|127\.0\.0\.1|\[::1\])$/.test(location.hostname) || /\.localhost
                   <a href="/experiences/#cat-community" class="nav-mega-q">Ярмарки та маркети</a>
                   <a href="/experiences/#cat-community" class="nav-mega-q">Інклюзивні події</a>
                   <a href="/experiences/#cat-community" class="nav-mega-q">Події для літніх</a>
-                  <a href="/experiences/#cat-community" class="nav-mega-q">Бар-тури</a>
                   <a href="/experiences/#cat-community" class="nav-mega-q">Готелі й ресорти</a>
                 </div>
               </div>
